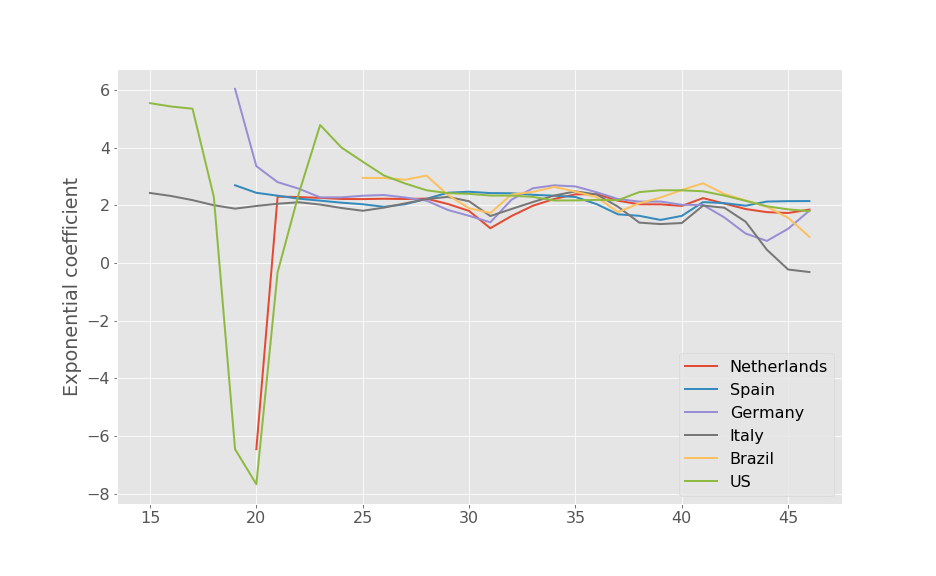
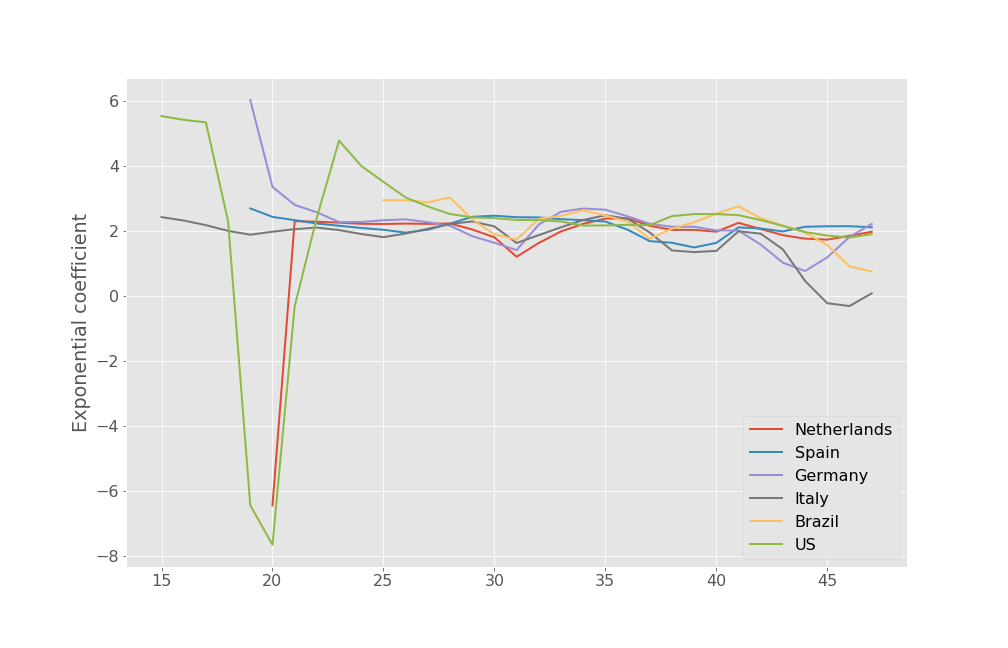
Figures with 2020-03-29 data

diff --git a/README.md b/README.md
@@ -1,9 +1,9 @@
 # Covid-19-Jupyter-Notebook
 **Author**: [Aquiles Carattino](https://www.aquicarattino.com)
 
-**Date**: 2020-03-29
+**Date**: 2020-03-30
 
-Example Jupyter notebook to explore the data of the ongoing COVID-19 Pandemic. The plots you see here were last generated on 2020-03-29 14:52:16.091095. 
+Example Jupyter notebook to explore the data of the ongoing COVID-19 Pandemic. The plots you see here were last generated on 2020-03-30 08:33:47.253394. 
 
 Data is pulled from [this repository](https://github.com/CSSEGISandData/COVID-19) which is updated regularly by the [Whiting School of Engineering of the Johns Hopkins University](https://systems.jhu.edu/research/public-health/ncov/).
 
